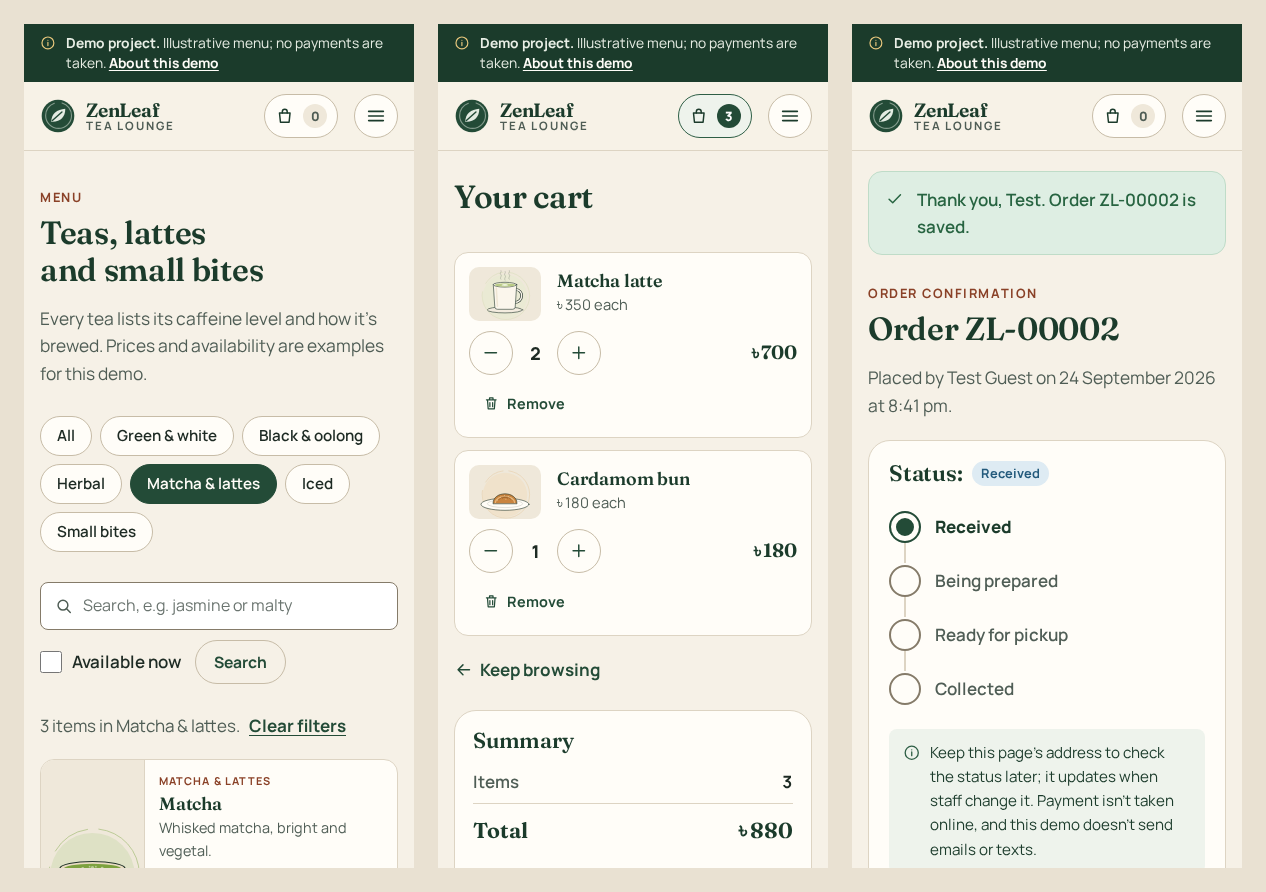
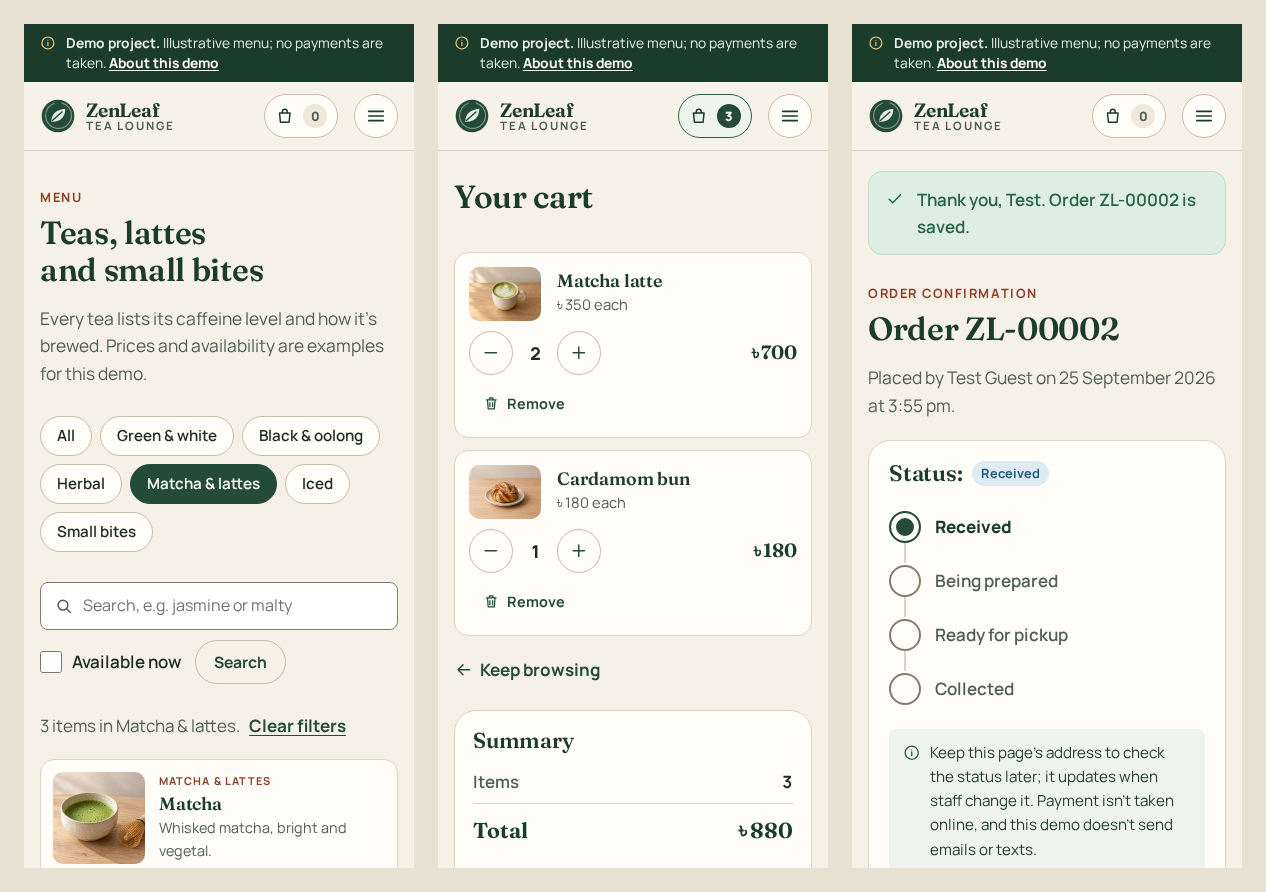
Refresh the README screenshots with the menu photos

diff --git a/README.md b/README.md
@@ -33,7 +33,7 @@ ZenLeaf is a demo: the lounge, its menu and its prices are made up, and no payme
 - Read contact messages and mark them handled. List newsletter subscribers and download them as CSV.
 
 <p align="center">
-  <img src="docs/screenshots/staff-products.png" width="800" alt="Staff products page: search and filter fields, and a table of green teas with On menu, Available and Featured switches and an Edit link on each row">
+  <img src="docs/screenshots/staff-products.png" width="800" alt="Staff products page: search and filter fields, and a table of herbal teas, each with a photo, On menu, Available and Featured switches and an Edit link">
 </p>
 
 ## Run it locally
